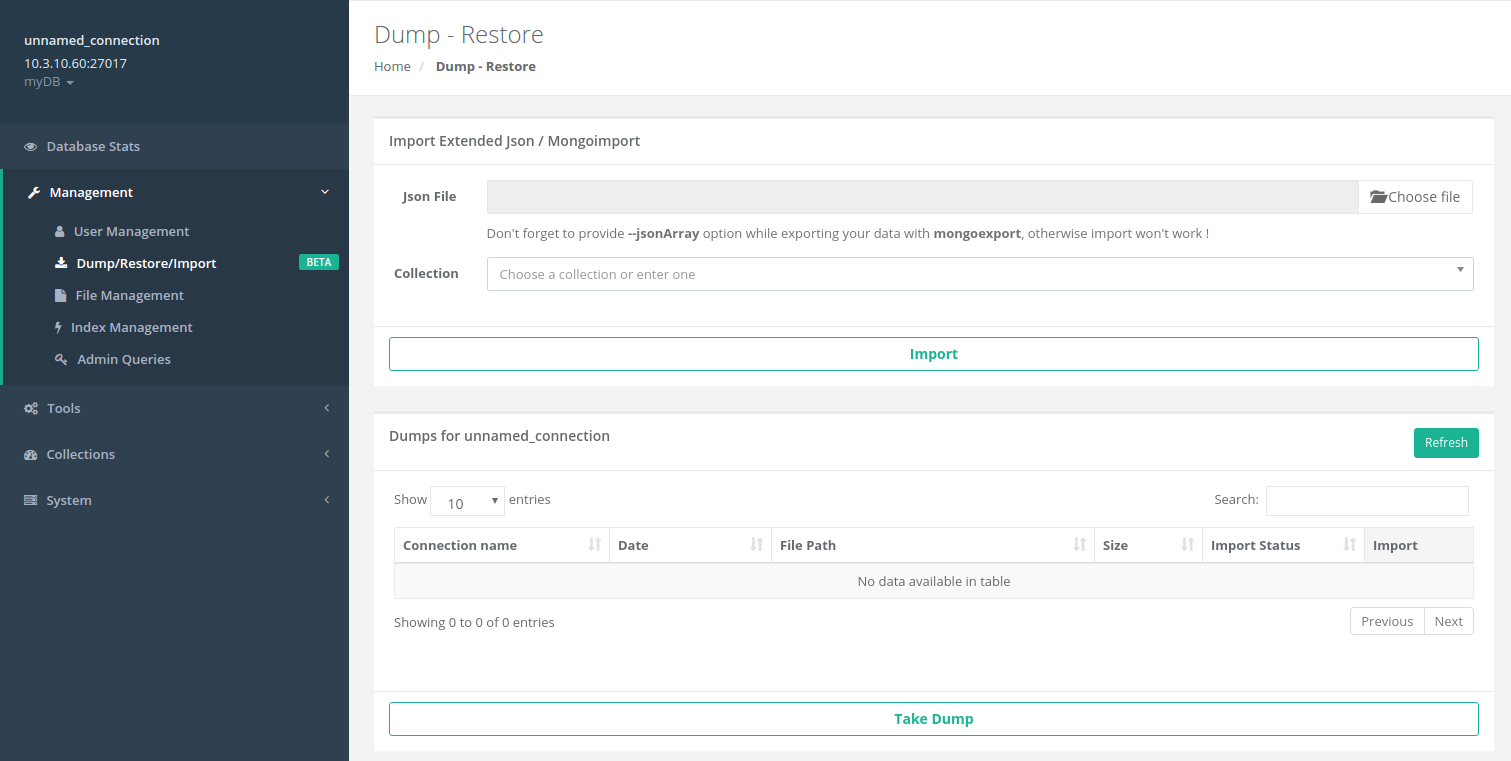
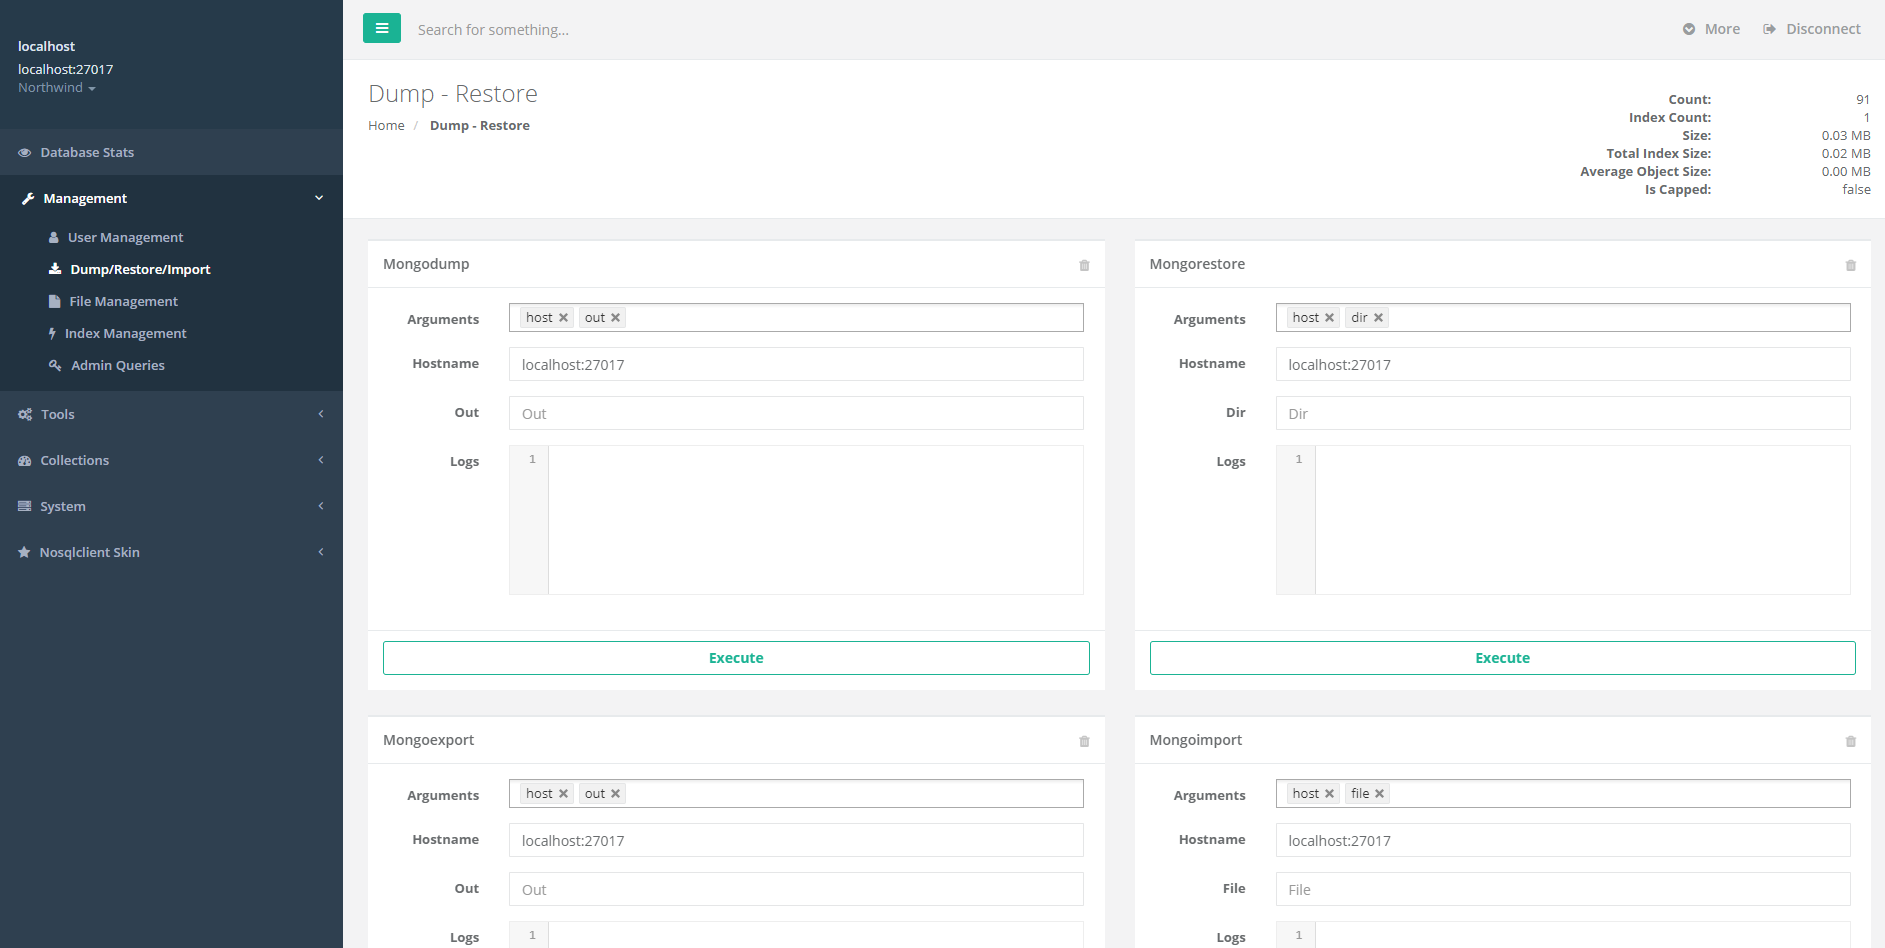
2.2.0 documentation

diff --git a/user_manual.html b/user_manual.html
@@ -57,7 +57,7 @@
         <div class="container">
             <div id="doc-header" class="doc-header text-center">
                 <h1 class="doc-title"><i class="icon fa fa-archive"></i> User Manual</h1>
-                <div class="meta"><i class="fa fa-clock-o"></i> Version 2.1.0</div>
+                <div class="meta"><i class="fa fa-clock-o"></i> Version 2.2.0</div>
             </div><!--//doc-header-->
             <div class="doc-body">
                 <div class="doc-content">
@@ -505,6 +505,8 @@
                                             empty
                                             if user is defined in the database that you wish to connect
                                         </p>
+                                        <p>Within <b>2.2.0 and higher</b> versions, you may leave username <b>or</b>
+                                            password empty, nosqlclient will prompt for them while connecting.</p>
                                     </div>
                                 </div>
 
@@ -514,6 +516,8 @@
                                         <p>MongoDB CR was the default authentication mechanism for MongoDB < 3.0.
                                             There're three fields to fill for this authentication type just like <a
                                                     href="#authentication_scram" class="scrollto">Scram-SHA-1</a></p>
+                                        <p>Within <b>2.2.0 and higher</b> versions, you may leave username <b>or</b>
+                                            password empty, nosqlclient will prompt for them while connecting.</p>
                                     </div>
                                 </div>
 
@@ -697,12 +701,18 @@
                                                     can
                                                     change the default result view with this setting </p>
                                             </li>
-                                            <li><b>Autocomplete feature for selectors</b>
-                                                <p>Enable/disable autocomplete feature on queries, it can cause trouble
-                                                    on
-                                                    huge
-                                                    collections, since Nosqlclient needs to scan collection fields for
-                                                    autocompletion</p>
+                                            <li><b>Autocomplete samples count</b>
+                                                <p>Nosqlclient takes random samples and clarifies auto complete fields
+                                                    with those, you
+                                                    may set whatever count you want for samples, <b>0</b> disables auto
+                                                    complete.
+                                                </p>
+                                            </li>
+                                            <li><b>Autocomplete shortcut</b>
+                                                <p>Change auto complete shortcut with this setting, by default it's <b>Ctrl-Space</b>.
+                                                    This setting is also being applied at shell section.
+                                                    <i>Combinations should be separated by dash.</i>
+                                                </p>
                                             </li>
                                             <li><b>Single tab for results</b>
                                                 <p>By default each query execution opens another tab, you can change
@@ -719,12 +729,16 @@
                                                     stats page</a> for statistics, you can
                                                     disable this feature</p>
                                             </li>
-                                            <li><b>Local dump path</b>
-                                                <p>Nosqlclient saves dumps to your local machine if you use the <a
-                                                        href="#dump_restore_import" class="scrollto">dump</a> section,
-                                                    you can
-                                                    specify
-                                                    the main path with this setting </p>
+                                            <li><b>Max. chart points</b>
+                                                <p>Database stats charts have certain number of points which can be
+                                                    changeable via this setting, by default it's <b>15</b></p>
+                                            </li>
+                                            <li><b>Mongo binaries path</b>
+                                                <p>Nosqlclient uses native mongo binaries for <b>dump, shell, schema
+                                                    analyzer</b> sections, unless you're using docker you need to set
+                                                    binary path to here.<i> E.g.
+                                                        /home/sercan/my_apps/mongodb3.4/bin</i>
+                                                </p>
                                             </li>
                                         </ul>
                                     </div>
@@ -783,6 +797,16 @@
                                 <div class="row">
                                     <div class="col-md-12 col-sm-12 col-xs-12">
                                         <h4 id="db_stats">Database Stats (Expert Level)</h4>
+                                        <div class="callout-block callout-success">
+                                            <div class="icon-holder">
+                                                <i class="fa fa-thumbs-up"></i>
+                                            </div><!--//icon-holder-->
+                                            <div class="content">
+                                                <h4 class="callout-title">Useful Tip</h4>
+                                                <p>You can zoom in/out or change position of any chart, via mouse wheel and dragging.
+                                                </p>
+                                            </div><!--//content-->
+                                        </div>
                                         <p>Nosqlclient queries your database at regular intervals to populate
                                             performance
                                             charts and tables at the <b>Database Stats</b> page</p> This feature can be
@@ -1188,19 +1212,6 @@
                                 <div class="row">
                                     <div class="col-md-12 col-sm-12 col-xs-12">
                                         <h4 id="dump_restore_import">Dump/Restore/Import (Novice Level)</h4>
-                                        <div class="callout-block callout-danger">
-                                            <div class="icon-holder">
-                                                <i class="fa fa-warning"></i>
-                                            </div><!--//icon-holder-->
-                                            <div class="content">
-                                                <h4 class="callout-title">Warning</h4>
-                                                <p>This section is <b>NOT FOR PRODUCTION USE </b> as of current version
-                                                    of
-                                                    Nosqlclient, and can be used on <b>TEST</b> or <b>LOCAL</b>
-                                                    environments.
-                                                </p>
-                                            </div><!--//content-->
-                                        </div>
                                         <div class="row">
                                             <div class="col-md-offset-3 col-sm-offset-3 col-xs-offset-3 col-md-6 col-sm-6 col-xs-6">
                                                 <div class="screenshot-holder">
@@ -1215,35 +1226,15 @@
                                                 </div>
                                             </div>
                                         </div>
-                                        <p>This section consists of two parts.</p>
-                                        <ul class="list">
-                                            <li><b>Import Data</b>
-                                                <p>
-                                                    If you have an extended JSON file which has been exported via <a
-                                                        href="https://docs.mongodb.com/manual/reference/program/mongoexport/"
-                                                        target="_blank">mongoexport</a>
-                                                    with <b>--jsonArray</b> flag, you can use this section to import
-                                                    this
-                                                    extended JSON into one of your collections.
-                                                </p>
-                                            </li>
-
-                                            <li><b>Dump/Restore</b>
-                                                <p>
-                                                    If you want to take a dump of your currently connected database, you
-                                                    can
-                                                    simply click <b>Take Dump</b> button. The local path that dump is
-                                                    written can be changed from <a class="scrollto"
-                                                                                   href="#settings">settings</a>
-                                                    <br/>
-                                                    Since dump process uses a <a
-                                                        href="https://docs.mongodb.com/manual/reference/command/parallelCollectionScan/"
-                                                        target="_blank">paralel scan of collections</a> , it's always
-                                                    good
-                                                    not to use this feature on production.
-                                                </p>
-                                            </li>
-                                        </ul>
+                                        <p><b>Within 2.2.0 and higher versions</b>, nosqlclient uses mongo binaries for
+                                            dump, restore,
+                                            import and export. Therefore no need to worry about any issue that can be
+                                            caused by nosqlclient.</p>
+                                        <p>Each section has it's own arguments which can be selected by choosing one or
+                                            entering new. Per selection you may see a new input field regarding your
+                                            argument, or there can be no input if it doesn't need any. </p>
+                                        <p>You need to set those binaries path from settings, unless you're using docker
+                                            edition, it's packaged with binaries. </p>
                                     </div>
                                 </div>
 
@@ -1554,7 +1545,8 @@
                                             that's placed at the right upper corner of the corresponding stage panel.
                                         </p>
 
-                                        <p>With version <b>2.1.0</b> you can now see histories of your aggregation
+                                        <p>With version <b>2.1.0</b> and higher versions, you can now see histories of
+                                            your aggregation
                                             pipelines and use those. Apart from that, Nosqlclient now opens per tab for
                                             per execution, which can be closed by right click menus or <b>x</b> button.
                                         </p>
@@ -1976,6 +1968,11 @@
                                                 href="https://docs.mongodb.com/manual/reference/method/db.collection.renameCollection/"
                                                 target="_blank">renameCollection</a>
                                             for this operation. </p>
+                                    </li>
+
+                                    <li><b>Manage - Clone</b>
+                                        <p>Nosqlclient executes <code>[{$match: {}}, {$out: cloned_name}]</code>
+                                            aggregation query for this operation.</p>
                                     </li>
 
                                     <li><b>Manage - Edit Validation Rules</b>

diff --git a/start.html b/start.html
@@ -56,7 +56,7 @@
         <div class="container">
             <div id="doc-header" class="doc-header text-center">
                 <h1 class="doc-title"><i class="icon fa fa-paper-plane"></i> Quick Start</h1>
-                <div class="meta"><i class="fa fa-clock-o"></i> Version 2.1.0</div>
+                <div class="meta"><i class="fa fa-clock-o"></i> Version 2.2.0</div>
             </div><!--//doc-header-->
             <div class="doc-body">
                 <div class="doc-content">
@@ -300,6 +300,7 @@
                                             releases. But it's okay to use <code>latest</code> tag everytime.</p>
                                         <ul class="list">
                                             <li>latest</li>
+                                            <li>2.2.0</li>
                                             <li>2.1.0</li>
                                             <li>2.0.0</li>
                                             <li>1.5.0</li>
@@ -327,8 +328,8 @@
                                             </tr>
                                             <tr>
                                                 <th scope="row">2</th>
-                                                <td><code>docker pull mongoclient/mongoclient:2.1.0</code></td>
-                                                <td>Runs version 2.1.0</td>
+                                                <td><code>docker pull mongoclient/mongoclient:2.2.0</code></td>
+                                                <td>Runs version 2.2.0</td>
                                             </tr>
                                             <tr>
                                                 <th scope="row">3</th>
@@ -382,7 +383,7 @@
 
                                 <div class="row">
                                     <div class="col-md-12 col-sm-12 col-xs-12">
-                                        <p>Nosqlclient uses MeteorJS version 1.4.4.2 as of version 2.1.0. To read
+                                        <p>Nosqlclient uses MeteorJS version 1.5.1 as of version 2.2.0. To read
                                             complete MeteorJS guide you can follow <a href="http://docs.meteor.com/">
                                                 this link</a>. To read more about code guideline, and how to contribute,
                                             you can <a

diff --git a/license.html b/license.html
@@ -57,7 +57,7 @@
         <div class="container">
             <div id="doc-header" class="doc-header text-center">
                 <h1 class="doc-title"><span aria-hidden="true" class="icon icon_gift"></span> License &amp; Credits</h1>
-                <div class="meta"><i class="fa fa-clock-o"></i> Version 2.0.0</div>
+                <div class="meta"><i class="fa fa-clock-o"></i> Version 2.2.0</div>
             </div><!--//doc-header-->
             <div class="doc-body">
                 <div class="doc-content">
@@ -69,7 +69,7 @@
                                     <h1>AGPL 3.0 & MIT</h1>
                                     <p></p>
                                     <div class="speech-bubble">
-                                        <h3 class="speech-title">Version 2.1.0</h3>
+                                        <h3 class="speech-title">Version 2.2.0</h3>
 
                                         <p>Nosqlclient uses <a href="https://opensource.org/licenses/MIT"
                                                                target="_blank">MIT</a> for prior versions

diff --git a/faqs.html b/faqs.html
@@ -58,7 +58,7 @@
             <div id="doc-header" class="doc-header text-center">
                 <h1 class="doc-title"><span aria-hidden="true" class="icon icon_lifesaver"></span> Frequently Asked
                     Questions </h1>
-                <div class="meta"><i class="fa fa-clock-o"></i> Version 2.1.0</div>
+                <div class="meta"><i class="fa fa-clock-o"></i> Version 2.2.0</div>
             </div><!--//doc-header-->
             <div class="doc-body">
                 <div class="doc-content">
